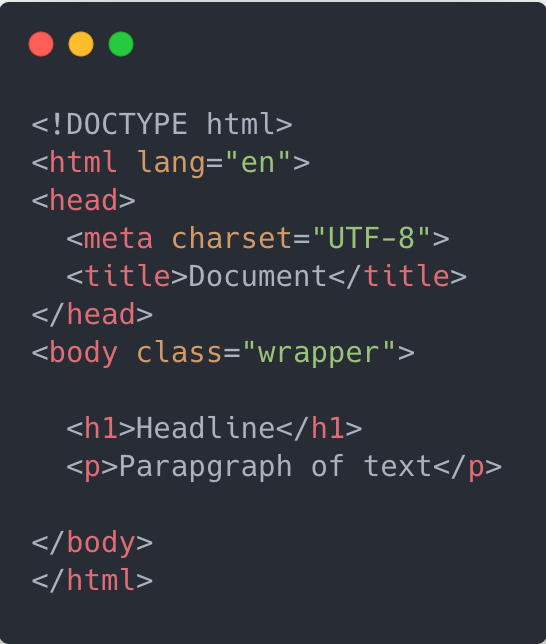
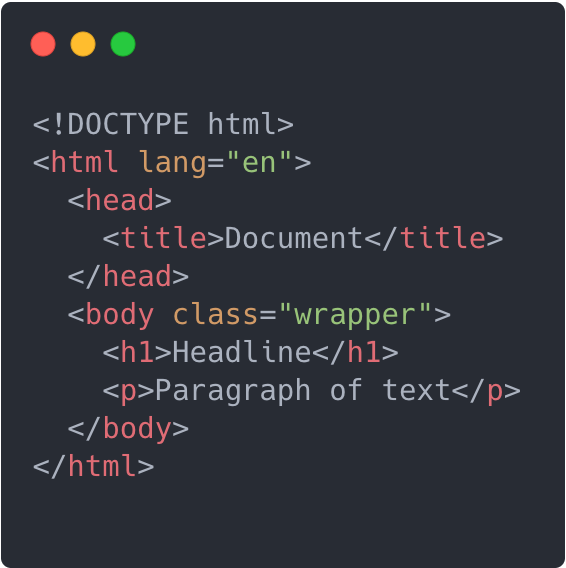
:lipstick: polish talk.

diff --git a/components/opening-slide.js b/components/opening-slide.js
@@ -7,50 +7,68 @@ import useColors from '../lib/useColors'
 const OpeningSlide = ({ title, author, subtitle, title2 }) => {
   const colors = useColors()
   return (
-    <hgroup>
-      <h1
-        css={{
-          margin: 0,
-          fontSize: '2.5em',
-          color: colors.headline,
-          borderBottom: `1px solid ${colors.headline}`,
-          paddingBottom: '1rem'
-        }}
+    <div
+      css={{
+        display: 'flex',
+        flexDirection: 'row',
+        alignItems: 'center',
+        height: '100%',
+        width: '100%'
+      }}
+    >
+      <hgroup
+        css={css`
+          z-index: 1;
+        `}
       >
-        {title}
-        {title2 ? ' - ' : ''}
-        {title2 ? <span style={{ color: colors.primary }}>{title2}</span> : ''}
-      </h1>
-      {subtitle && (
-        <h4
+        <h1
           css={{
-            marginTop: '2rem',
-            color: colors.primary
+            margin: 0,
+            fontSize: '2.5em',
+            color: colors.headline,
+            borderBottom: `1px solid ${colors.headline}`,
+            paddingBottom: '1rem'
           }}
         >
-          {subtitle}
-        </h4>
-      )}
-      {author && (
-        <a
-          href="https://hendrikwallbaum.de"
-          target="_blank"
-          css={{ textDecoration: 'none' }}
-        >
+          {title}
+          {title2 ? ' - ' : ''}
+          {title2 ? (
+            <span style={{ color: colors.primary }}>{title2}</span>
+          ) : (
+            ''
+          )}
+        </h1>
+        {subtitle && (
           <h4
-            css={css`
-              color: ${colors.primary};
-              text-align: right;
-              position: absolute;
-              bottom: 0;
-              right: 4rem;
-            `}
+            css={{
+              marginTop: '2rem',
+              color: colors.primary
+            }}
           >
-            by {author}
+            {subtitle}
           </h4>
-        </a>
-      )}
-    </hgroup>
+        )}
+        {author && (
+          <a
+            href="https://hendrikwallbaum.de"
+            target="_blank"
+            css={{ textDecoration: 'none' }}
+          >
+            <h4
+              css={css`
+                color: ${colors.primary};
+                text-align: right;
+                position: absolute;
+                bottom: 2rem;
+                right: 6rem;
+              `}
+            >
+              by {author}
+            </h4>
+          </a>
+        )}
+      </hgroup>
+    </div>
   )
 }
 

diff --git a/components/closing-slide.js b/components/closing-slide.js
@@ -1,0 +1,53 @@
+/** @jsx jsx */
+import { css, jsx } from '@emotion/core'
+import useColors from '../lib/useColors'
+
+const ClosingSlide = ({ title, author }) => {
+  const colors = useColors()
+  return (
+    <div
+      css={{
+        display: 'flex',
+        flexDirection: 'row',
+        alignItems: 'center',
+        height: '100%',
+        width: '100%',
+        textAlign: 'center'
+      }}
+    >
+      <hgroup
+        css={css`
+          z-index: 1;
+        `}
+      >
+        <h1
+          css={{
+            margin: 0,
+            fontSize: '2.5em',
+            color: colors.headline,
+            paddingBottom: '1rem'
+          }}
+        >
+          {title}
+        </h1>
+        {author && (
+          <a
+            href="https://hendrikwallbaum.de"
+            target="_blank"
+            css={{ textDecoration: 'none' }}
+          >
+            <h4
+              css={css`
+                color: ${colors.primary};
+              `}
+            >
+              {author}
+            </h4>
+          </a>
+        )}
+      </hgroup>
+    </div>
+  )
+}
+
+export default ClosingSlide

diff --git a/components/background-image.js b/components/background-image.js
@@ -1,10 +1,14 @@
 /** @jsx jsx */
 import { css, jsx } from '@emotion/core'
 import Credit from './credit'
-import useColors from '../lib/useColors'
 
-export const BackgroundImage = ({ src, credit, creditLink, blur }) => {
-  const color = useColors()
+export const BackgroundImage = ({
+  src,
+  credit,
+  creditLink,
+  blur,
+  children
+}) => {
   return (
     <div
       css={css`
@@ -12,12 +16,13 @@ export const BackgroundImage = ({ src, credit, creditLink, blur }) => {
         background-size: cover;
         ${blur
           ? css`
-              filter: blur(10px);
+              filter: blur(5px);
             `
           : ''}
         width: 100vw;
         height: 100vh;
         position: absolute;
+        z-index: 0;
         top: 0;
         left: 0;
         &:after {
@@ -37,6 +42,7 @@ export const BackgroundImage = ({ src, credit, creditLink, blur }) => {
         }
       `}
     >
+      {children && children}
       {credit ? <Credit credit={credit} creditLink={creditLink} onImage /> : ''}
     </div>
   )

diff --git a/lib/provider.js b/lib/provider.js
@@ -10,7 +10,7 @@ const Provider = ({ children }) => {
 
   // Set the base rem according to screen resolution.
   const screenWidth = document.querySelector('body').clientWidth
-  console.log(screenWidth)
+
   let baseFontSize = 16
   if (screenWidth >= 1920) baseFontSize = 22
 
@@ -20,6 +20,13 @@ const Provider = ({ children }) => {
         styles={css`
           html {
             font-size: ${baseFontSize}px;
+          }
+          h1,
+          h2,
+          h3,
+          h4,
+          h5 {
+            margin-top: 0;
           }
         `}
       />
@@ -46,7 +53,7 @@ const Provider = ({ children }) => {
       >
         {children}
 
-        {state.index === 0 ? (
+        {state.index === 0 || state.index === state.length - 1 ? (
           ''
         ) : (
           <p

diff --git a/components/boids/Boids.js b/components/boids/Boids.js
@@ -2,13 +2,22 @@
 import { css, jsx } from '@emotion/core'
 import imgBoids from './boids.png'
 
-const Boids = () => (
+const Boids = ({ left }) => (
   <img
     css={css`
       position: absolute;
       bottom: 0;
-      right: 0;
-      width: 22rem;
+      ${!left &&
+        css`
+          right: 0;
+        `}
+      ${left &&
+        css`
+          left: 0;
+          transform: translateX(-25%) translateY(25%);
+        `}
+      width: 20rem;
+      opacity: 0.66;
     `}
     src={imgBoids}
   />

diff --git a/lib/central.layout.js b/lib/central.layout.js
@@ -7,10 +7,11 @@ const Central = ({ children }) => {
         display: 'flex',
         flexDirection: 'row',
         alignItems: 'center',
-        height: '100%'
+        height: '100%',
+        width: '100%'
       }}
     >
-      <div>{children}</div>
+      <div css={{ width: '100%' }}>{children}</div>
     </div>
   )
 }

diff --git a/components/slide-headline.js b/components/slide-headline.js
@@ -13,7 +13,7 @@ const SlideHeadline = ({ children, sectionTitle }) => {
         font-weight: 300;
         color: ${colors.headline};
         margin-top: 0;
-        margin-bottom: 0.5em;
+        margin-bottom: 0.66em;
       `}
     >
       {sectionTitle && (

diff --git a/lib/theme.js b/lib/theme.js
@@ -131,8 +131,8 @@ const codeTalksColors = {
 
 const netlightColors = {
   primary: '#FF7979',
-  text: 'white',
-  background: '#2C3F6B',
+  text: '#e6e3dc',
+  background: '#1c2b42', //'#2C3F6B',
   headline: 'white',
   accent: '#FF7979'
 }

diff --git a/lib/imageSplit.layout.js b/lib/imageSplit.layout.js
@@ -8,7 +8,6 @@ const ImageSplit = ({ children, src }) => {
       css={css`
         display: flex;
         flex-direction: row;
-        align-items: center;
         height: 100%;
         width: 100%;
       `}

diff --git a/components/website/resetStyles.js b/components/website/resetStyles.js
@@ -13,6 +13,7 @@ const resetStyles = css`
     color: black;
     font-family: serif;
     font-size: 1rem;
+    background-color: white;
   }
   /* HTML5 blocks - needed in older browsers */
   & article,

diff --git a/components/index.html b/components/index.html
@@ -1,0 +1,10 @@
+<!DOCTYPE html>
+<html lang="en">
+  <head>
+    <title>Document</title>
+  </head>
+  <body class="wrapper">
+    <h1>Headline</h1>
+    <p>Paragraph of text</p>
+  </body>
+</html>
